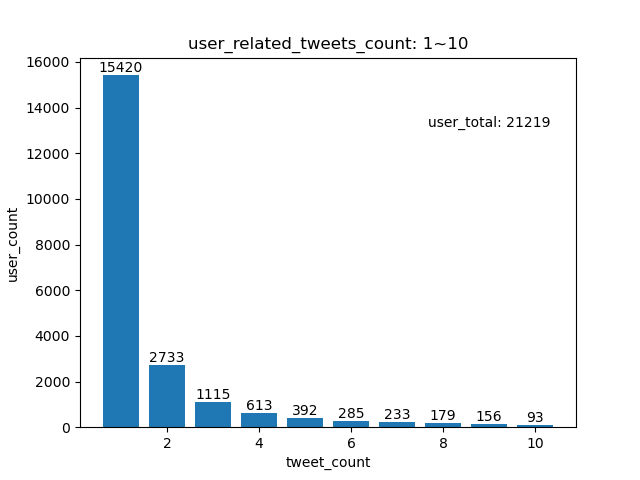
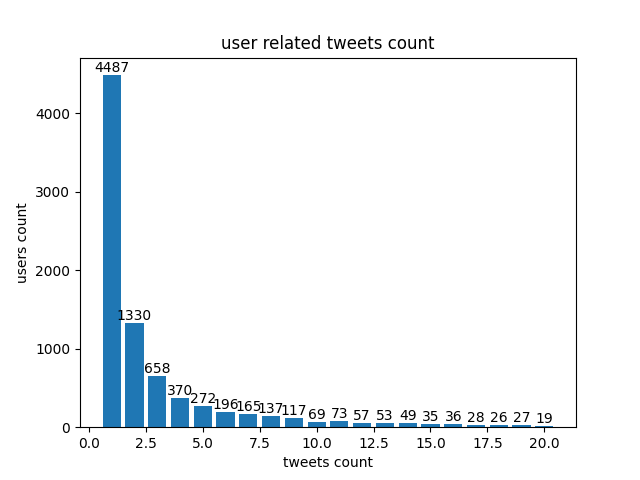
feat: 数据处理

diff --git a/source/data_analysis/1201_analysis.py b/source/data_analysis/1201_analysis.py
@@ -5,19 +5,18 @@ using the hashtags, and don't collect the social network
 import pandas as pd
 import numpy as np
 import matplotlib.pyplot as plt
-
+from ast import literal_eval
 from collections import Counter
 
 
 def plot_by_percentage(array, base=100, **kwargs):
+    plt.figure(figsize=(10, 6))  # 调整图表尺寸
+    array = np.array(array)
     array.sort()
-    y = []
-    for i in range(base+1):
-        y.append(array[int(len(array) * (i / (base + 1)))])
+    y = [array[int(len(array) * (i / (base + 1)))] for i in range(base + 1)]
     plt.plot(y)
-    for i in range(10):
-        i *= 10
-        plt.text(i, y[i], y[i], ha='center', va='bottom', fontsize=10)
+    for i in range(0, 101, 10):
+        plt.text(i, y[i], str(y[i]), ha='center', va='bottom', fontsize=8)
     plt.title(kwargs['title'])
     plt.ylabel(kwargs['ylabel'])
     plt.xlabel(kwargs['xlabel'])
@@ -25,93 +24,97 @@ def plot_by_percentage(array, base=100, **kwargs):
     yi = int(y[-1] * 0.8)
     plt.text(xi, yi, 'mean: {}'.format(int(array.mean())), fontsize=10)
     yi = int(y[-1] * 0.7)
-    plt.text(xi, yi, 'median: {}'.format(y[base//2]), fontsize=10)
+    plt.text(xi, yi, 'median: {}'.format(int(np.median(array))), fontsize=10)
+    plt.subplots_adjust(left=0.15, bottom=0.15)  # 调整边界
     plt.savefig(kwargs['savefig_path'])
-    # plt.show()
     plt.clf()
     plt.cla()
 
-
-def user_properties_analysis(filename="../../data/US2020election_user.csv"):
+def user_properties_analysis(filename="../../data/us_2020_election/user_1.csv"):
     with open(filename, "rb") as f:
         data = pd.read_csv(f)
-    tweet_count = data['tweets_count'].values
-    liked_tweet_count = data['liked_tweets_count'].values
-    follower_count = data['followers_count'].values
-    following_count = data['followings_count'].values
+
+    # 将字符串表示的字典转换为字典对象
+    data['public_metrics'] = data['public_metrics'].apply(literal_eval)
+
+    # 现在你可以像这样访问字典中的值
+    tweet_count = data['public_metrics'].apply(lambda x: x['tweet_count']).values
+    # liked_tweet_count = data['liked_tweets_count'].values
+    follower_count = data['public_metrics'].apply(lambda x: x['followers_count']).values
+    following_count = data['public_metrics'].apply(lambda x: x['following_count']).values
 
     info = {
-        'title': 'user tweets analysis',
+        'title': 'user tweets',
         'ylabel': 'tweets count',
         'xlabel': 'percentage',
         'savefig_path': './data/user_tweets_analysis'
     }
     plot_by_percentage(tweet_count, **info)
 
-    info['title'] = 'user_liked_tweet_analysis'
-    info['savefig_path'] = './data/user_liked_tweet_analysis'
-    plot_by_percentage(liked_tweet_count, **info)
+    # info['title'] = 'user_liked_tweet_analysis'
+    # info['savefig_path'] = './data/user_liked_tweet_analysis'
+    # plot_by_percentage(liked_tweet_count, **info)
 
     info['title'] = 'user_following_count_analysis'
     info['ylabel'] = 'following_count'
     info['savefig_path'] = './data/' + info['title']
     plot_by_percentage(following_count, **info)
 
-    info['title'] = 'user_follower_count_analysis'
-    info['ylabel'] = 'follower_count'
+    info['title'] = 'user followers count'
+    info['ylabel'] = 'followers count'
     info['savefig_path'] = './data/' + info['title']
     plot_by_percentage(follower_count, **info)
 
-
-def user_related_tweets_analysis(filename="../../data/US2020election_user2tweet.csv"):
+def user_related_tweets_analysis(filename="../../data/us_2020_election/key_tweet_1.csv"):
     with open(filename, "rb") as f:
         data = pd.read_csv(f)
     user_related_tweets_count = data['user_id'].value_counts().values
     counter = Counter(user_related_tweets_count)
 
-    # 1~10
-    x = list(range(1, 11))
+    # 1~30
+    x = list(range(1, 31))
     y = []
     for xi in x:
-        if xi in counter:
-            y.append(counter[xi])
-        else:
-            y.append(0)
-    plt.title('user_related_tweets_count: 1~10')
-    plt.ylabel('user_count')
-    plt.xlabel('tweet_count')
-    plt.bar(x=x, height=y, )
+        y.append(counter.get(xi, 0))
+    plt.title('User Related Tweets Count (1-30)')
+    plt.ylabel('Users Count')
+    plt.xlabel('Tweets Count')
+    plt.bar(x=x, height=y)
     for i in range(len(x)):
-        plt.text(x[i], y[i], y[i], ha='center', va='bottom')
-    plt.text(9, 13e3, 'user_total: {}'.format(sum(y)), ha='center', va='bottom')
-    # plt.show()
-    plt.savefig('./data/user_related_tweets_count_1~10')
+        plt.text(x[i], y[i], str(y[i]), ha='center', va='bottom')
+    plt.text(25, max(y) * 0.9, 'user_total: {}'.format(sum(y)), ha='center', va='bottom')
+
+    # 设置x轴的刻度为整数，并间隔1个显示
+    plt.xticks(x[::2])  # 修改这里来控制间隔显示，例如[::2]为每2个显示一个刻度
+
+    plt.savefig('./data/user_related_tweets_count_1~30')
     plt.clf()
     plt.cla()
 
-    counter_interval = Counter(user_related_tweets_count // 5)
-    counter_interval.pop(0)
-    counter_interval.pop(1)
+    # 对于区间，我们需要重新计算counter_interval
+    # 为了使x轴范围为1到30，我们需要调整计数逻辑
+    counter_interval = Counter((user_related_tweets_count - 1) // 5 + 1)
+    # 移除不在1到30范围内的键
+    keys_to_remove = [key for key in counter_interval.keys() if key < 1 or key > 30]
+    for key in keys_to_remove:
+        del counter_interval[key]
 
     plt.title('user_related_tweets_count: interval')
     plt.ylabel('user_count')
     plt.xlabel('tweet_count // 5')
-    x = list(counter_interval.keys())
-    y = list(counter_interval.values())
-    plt.bar(x=x, height=y, )
+    x = list(range(1, 31))  # 确保x轴范围为1到30
+    y = [counter_interval.get(xi, 0) for xi in x]  # 获取每个区间的计数
+    plt.bar(x=x, height=y)
     for i in range(len(x)):
-        if x[i] > 25:
-            continue
         plt.text(x[i], y[i], y[i], ha='center', va='bottom')
-    plt.text(20, 350, 'user_total: {}'.format(sum(y)), ha='center', va='bottom')
-    plt.xlim(1, 25)
-    # plt.show()
+    plt.text(25, 350, 'user_total: {}'.format(sum(y)), ha='center', va='bottom')
+    plt.xlim(0.5, 30.5)  # 设置x轴的显示范围稍微宽一点，确保第一个和最后一个柱形完全显示
+    plt.xticks(x)  # 设置x轴的刻度为整数
     plt.savefig('./data/user_related_tweets_count_interval')
     plt.clf()
     plt.cla()
 
-
-def tweet_properties_analysis(filename="../../data/US2020election_tweet.csv"):
+def tweet_properties_analysis(filename="../../data/us_2020_election/key_tweet_1.csv"):
     with open(filename, "rb") as f:
         data = pd.read_csv(f)
     # create_at = data['create_at'].values
@@ -137,18 +140,19 @@ def tweet_properties_analysis(filename="../../data/US2020election_tweet.csv"):
 
 
 if __name__ == "__main__":
-    # user_properties_analysis()
-    # user_related_tweets_analysis()
-    # tweet_properties_analysis()
+    user_properties_analysis()
+    user_related_tweets_analysis()
+    tweet_properties_analysis()
 
-    with open('../../data/us_2020_election/degree_1.csv', 'r') as f:
-        nodes_df = pd.read_csv(f)
+    # with open('../../data/us_2020_election/degree_1.csv', 'r') as f:
+    #     nodes_df = pd.read_csv(f)
+    #
+    # info = {
+    #     'title': 'degree_count',
+    #     'ylabel': 'degree',
+    #     'xlabel': 'percentage',
+    #     'savefig_path': './data/degree_count'
+    # }
+    #
+    # plot_by_percentage(nodes_df['degree'].values, **info)
 
-    info = {
-        'title': 'degree_count',
-        'ylabel': 'degree',
-        'xlabel': 'percentage',
-        'savefig_path': './data/degree_count'
-    }
-
-    plot_by_percentage(nodes_df['degree'].values, **info)

diff --git a/main.py b/main.py
@@ -1,2 +1,30 @@
 if __name__ == '__main__':
-    print('hello world')
+    import re
+
+
+    # 定义一个函数来分析日志文件
+    def analyze_log(log_contents):
+        # 定义错误模式
+        error_pattern = re.compile(r"ERROR|Exception|Traceback|failure|error")
+
+        # 初始化状态
+        status = "SUCCESS"  # 假设训练成功完成
+
+        # 搜索日志内容中的错误信息
+        if error_pattern.search(log_contents):
+            status = "FAILURE"  # 发现错误模式，设置状态为失败
+
+        return status
+
+
+    # 假设您已经有了日志内容，这里是一个例子
+    log_contents = """
+    [2024-03-12 14:41:30,298] torch.distributed.elastic.multiprocessing.api: [ERROR] failed (exitcode: 1) local_rank: 0 (pid: 494) of binary: /usr/bin/python
+    torch.distributed.DistBackendError: NCCL error in: /opt/pytorch/pytorch/torch/csrc/distributed/c10d/ProcessGroupNCCL.cpp
+    """
+
+    # 分析日志
+    training_status = analyze_log(log_contents)
+
+    # 打印状态或进行相应的操作
+    print(f"Training status: {training_status}")
